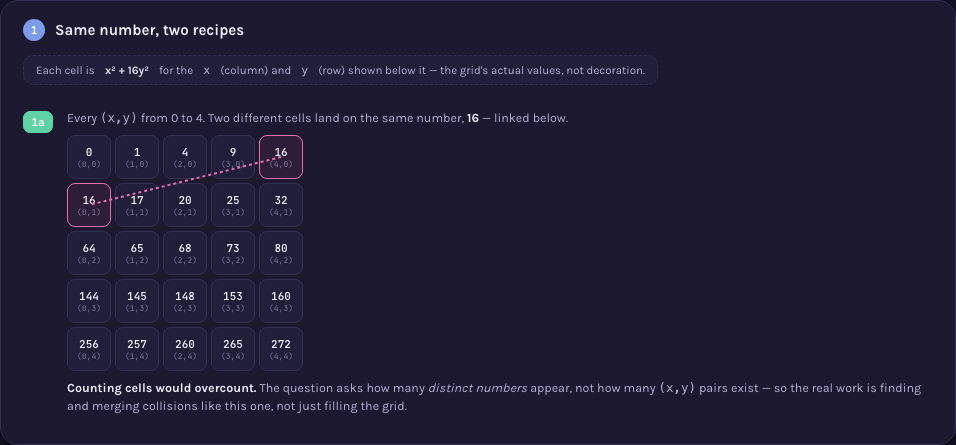
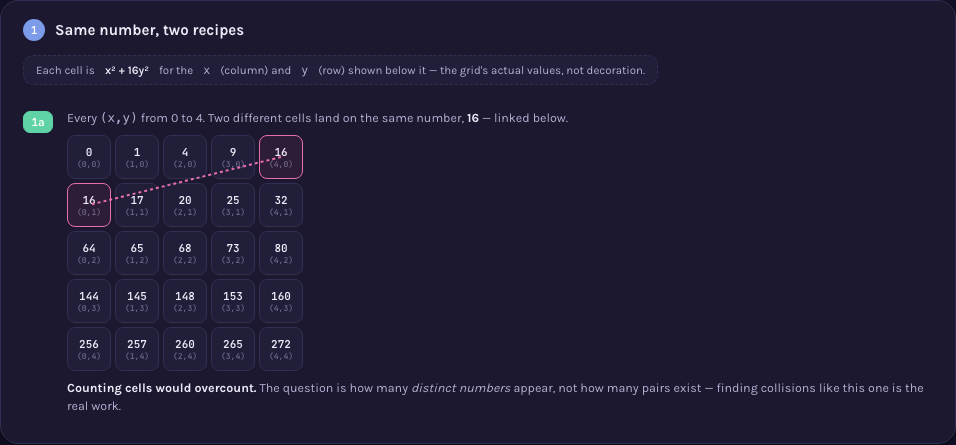
Trim A000018's step captions to fit principle 17's word budget
Rebasing onto main picked up principle 17 (legend/caption length,
mechanized in verify/captions.mjs) after this page was written
against the older, unmeasured convention. Its 8 step captions
averaged 29.4 words; trimmed to fit without cutting any of the
three ideas they explain (the collision, the necessary-not-sufficient
condition, the growth chart).

Claude-Session: https://claude.ai/code/session_01FtVodpGJkx7iSrf3rWcNLe

Changed region(s): [[0.0607, 0.8472, 0.9707, 0.9348], [0.0, 0.9933, 1.0, 1.0]]

diff --git a/memory-bank/visualizations/A000018/viz.html b/memory-bank/visualizations/A000018/viz.html
@@ -110,12 +110,12 @@
   <!-- PROBLEM -->
   <section class="card" id="cardProblem">
     <h2><span class="no q">?</span> Problem</h2>
-    <p class="subcap">Some integers can be written as <code>x² + 16y²</code> for whole numbers
-      <code>x, y ≥ 0</code> — <code>16 = 0²+16·1²</code>, <code>17 = 1²+16·1²</code>,
-      <code>20 = 2²+16·1²</code>. How many such integers are there up to a bound?</p>
+    <p class="subcap">Some integers are <code>x² + 16y²</code> for whole numbers
+      <code>x, y ≥ 0</code> — like <code>16</code>, <code>17</code>, <code>20</code>. How many are
+      there up to a bound?</p>
     <div class="chips" id="probChips"></div>
-    <p class="subcap">The counts up to <code>2ⁿ</code>, for <code>n = 0..9</code> — growing, but by
-      how much, and why can't you just count the <code>(x,y)</code> pairs that produce them?</p>
+    <p class="subcap">The counts up to <code>2ⁿ</code>, <code>n = 0..9</code>, are growing — but why
+      can't you just count the <code>(x,y)</code> pairs?</p>
   </section>
 
   <div class="flow">&darr;</div>
@@ -130,9 +130,9 @@
         <p class="subcap">Every <code>(x,y)</code> from 0 to 4. Two different cells land on the
           same number, <b>16</b> — linked below.</p>
         <div class="rg-wrap" id="s1a"></div>
-        <p class="subcap"><b>Counting cells would overcount.</b> The question asks how many
-          <i>distinct numbers</i> appear, not how many <code>(x,y)</code> pairs exist — so the real
-          work is finding and merging collisions like this one, not just filling the grid.</p>
+        <p class="subcap"><b>Counting cells would overcount.</b> The question is how many
+          <i>distinct numbers</i> appear, not how many pairs exist — finding collisions like this
+          one is the real work.</p>
       </div>
     </div>
   </section>
@@ -146,12 +146,11 @@
       <div class="subno res">2a</div>
       <div class="subbody">
         <p class="subcap"><code>x² + 16y²</code> is exactly <code>x² + (4y)²</code> — so every
-          number counted here is automatically expressible as a sum of two squares, with one of
-          them a multiple of 4. For <b>17</b>: <code>1² + 16·1² = 1² + 4² = 17</code>.</p>
-        <p class="subcap">That's a real, checkable <b>necessary</b> condition — not a full
-          characterization. Plenty of sums of two squares (like <code>2 = 1²+1²</code>) are not of
-          this stricter form at all, since Fermat's two-square theorem allows any even square as
-          the second term, not only a multiple of 16.</p>
+          number here is automatically a sum of two squares. For <b>17</b>:
+          <code>1² + 4² = 17</code>.</p>
+        <p class="subcap">That's <b>necessary</b>, not sufficient — sums like <code>2 = 1²+1²</code>
+          aren't this stricter form, since Fermat's theorem allows any even square, not only a
+          multiple of 16.</p>
       </div>
     </div>
   </section>
